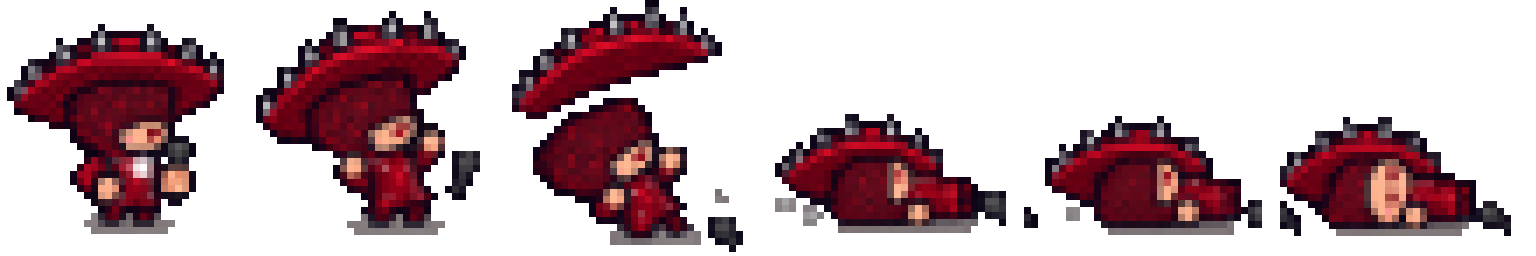
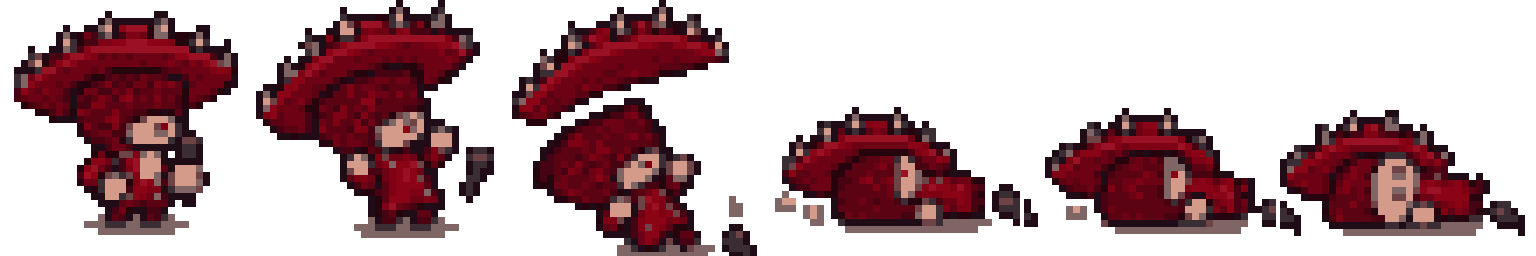
크림슨 디바 크기 A(×1.25), 팔레트 14색으로 정리해 도트 또렷하게, 키 큰 프레임 발 잘림 수정
Claude-Session: https://claude.ai/code/session_01CTycXSNtqEpKLb11niWLUo

Changed region(s): [[0.0, 0.0, 1.0, 1.0]]

diff --git a/quiz-game/tools/build_chars.py b/quiz-game/tools/build_chars.py
@@ -17,7 +17,7 @@ import build_sheets as bs
 
 REF_SIZE = 158  # 기본(blue) 캐릭터 idle의 덩치(면적 제곱근)
 # 실제 크기 비율: 기준(1.0) 대비 화면에 보이는 크기. 줄여도 도트 크기(DOT)는 그대로라서 그림 자체를 더 성긴 도트로 다시 찍는다
-SIZE = {"diva": 0.8, "dv2": 0.8, "chick": 0.38, "chicken": 0.5, "frog": 0.7, "shiba": 0.8, "labrador": 0.9, "pig": 0.9, "hippo": 0.8}
+SIZE = {"diva": 1.0, "dv2": 1.0, "chick": 0.38, "chicken": 0.5, "frog": 0.7, "shiba": 0.8, "labrador": 0.9, "pig": 0.9, "hippo": 0.8}
 DOT = 7  # 셀 안에서 도트 한 개의 크기(px). 파란티 등 기본 캐릭터의 도트 크기와 같다
 MOTIONS = {"idle": 4, "walk": 6, "run": 6, "attack": 6, "die": 6}  # 모션 → 프레임 수 (attack·die는 2줄 x 3칸)
 
@@ -110,6 +110,7 @@ def main(src: Path, out: Path):
             infos = []
             for f in frames:
                 try:
+                    if os.environ.get("FOOT"): raise SystemExit  # 그림자가 없거나 들쭉날쭉한 시트는 가장 아래 점을 발로 본다
                     infos.append(bs.shadow_info(f))
                 except SystemExit:  # 그림자가 없으면 발 위치로 대신함
                     al = f[..., 3] > 128
@@ -138,6 +139,9 @@ def main(src: Path, out: Path):
                     im = im.resize((max(1, round(im.width * sc)), max(1, round(im.height * sc))), Image.NEAREST)
                     sc_eff = sc
                 px, py = bs.ANCHOR[0] - round(cx * sc_eff), bs.ANCHOR[1] - round(by * sc_eff)
+                if py < 0 and os.environ.get("FOOT"):  # 팔을 번쩍 든 것처럼 키가 큰 프레임: 발이 잘리지 않게 이 프레임만 줄여 앵커에 맞춤
+                    k = (im.height + py) / im.height; nw = max(1, round(im.width * k)); im = im.resize((nw, im.height + py), Image.NEAREST)
+                    px, py = bs.ANCHOR[0] - round(cx * sc_eff * k), 0
                 px = min(max(px, 0), bs.CELL - im.width)  # 살짝 벗어난 건 옆으로 밀어 넣음 (쓰러진 자세 등)
                 py = max(py, 0)
                 cell = Image.new("RGBA", (bs.CELL, bs.CELL), (0, 0, 0, 0))

diff --git a/quiz-game/tools/pal_snap.py b/quiz-game/tools/pal_snap.py
@@ -1,0 +1,18 @@
+"""한 캐릭터의 모든 시트 색을 공통 팔레트(기본 16색)로 맞춰 번지고 깨진 색을 또렷한 도트로 정리한다.
+사용: python3 tools/pal_snap.py public/characters/diva [색 수]"""
+import sys
+from pathlib import Path
+import numpy as np
+from PIL import Image
+
+d = Path(sys.argv[1]); n = int(sys.argv[2]) if len(sys.argv) > 2 else 16
+files = sorted(d.glob("*.png"))
+imgs = {f: np.array(Image.open(f).convert("RGBA")) for f in files}
+px = np.concatenate([a[a[..., 3] > 0][:, :3] for a in imgs.values()])
+pal_img = Image.fromarray(px[np.random.default_rng(0).choice(len(px), min(len(px), 60000), replace=False)].reshape(-1, 1, 3).astype(np.uint8)).quantize(colors=n, method=Image.MEDIANCUT)
+pal = np.array(pal_img.getpalette()[: n * 3]).reshape(-1, 3).astype(int)
+for f, a in imgs.items():
+    m = a[..., 3] > 0; rgb = a[m][:, :3].astype(int)
+    idx = ((rgb[:, None, :] - pal[None, :, :]) ** 2).sum(axis=2).argmin(axis=1)
+    out = a.copy(); out[m, :3] = pal[idx]; Image.fromarray(out).save(f)
+print(d.name, len(files), "시트 →", n, "색")
